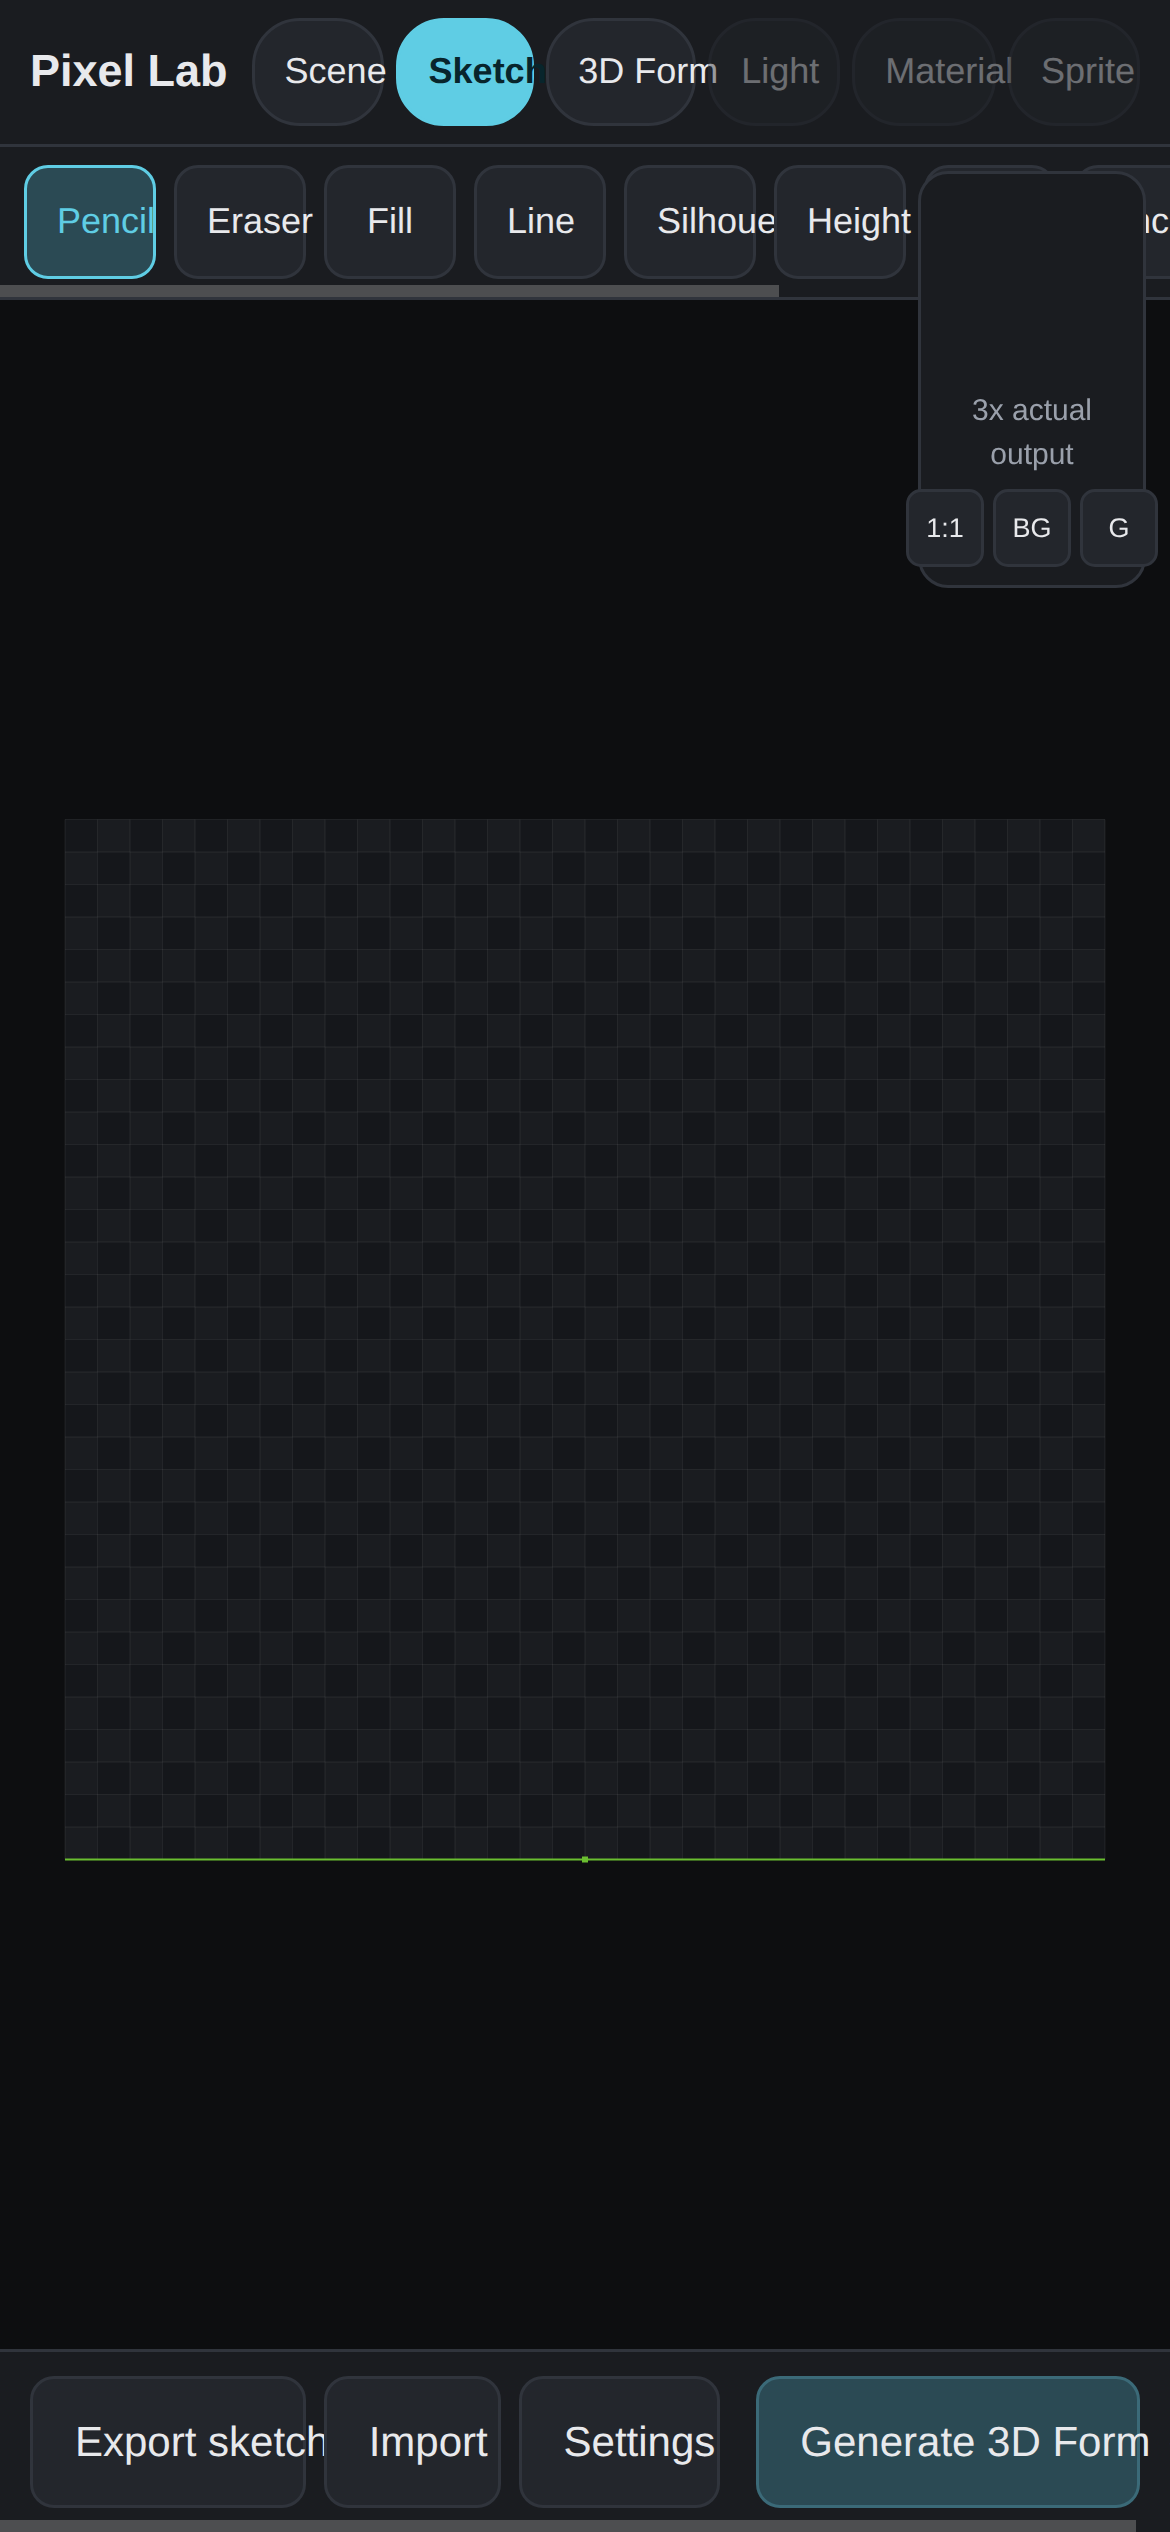
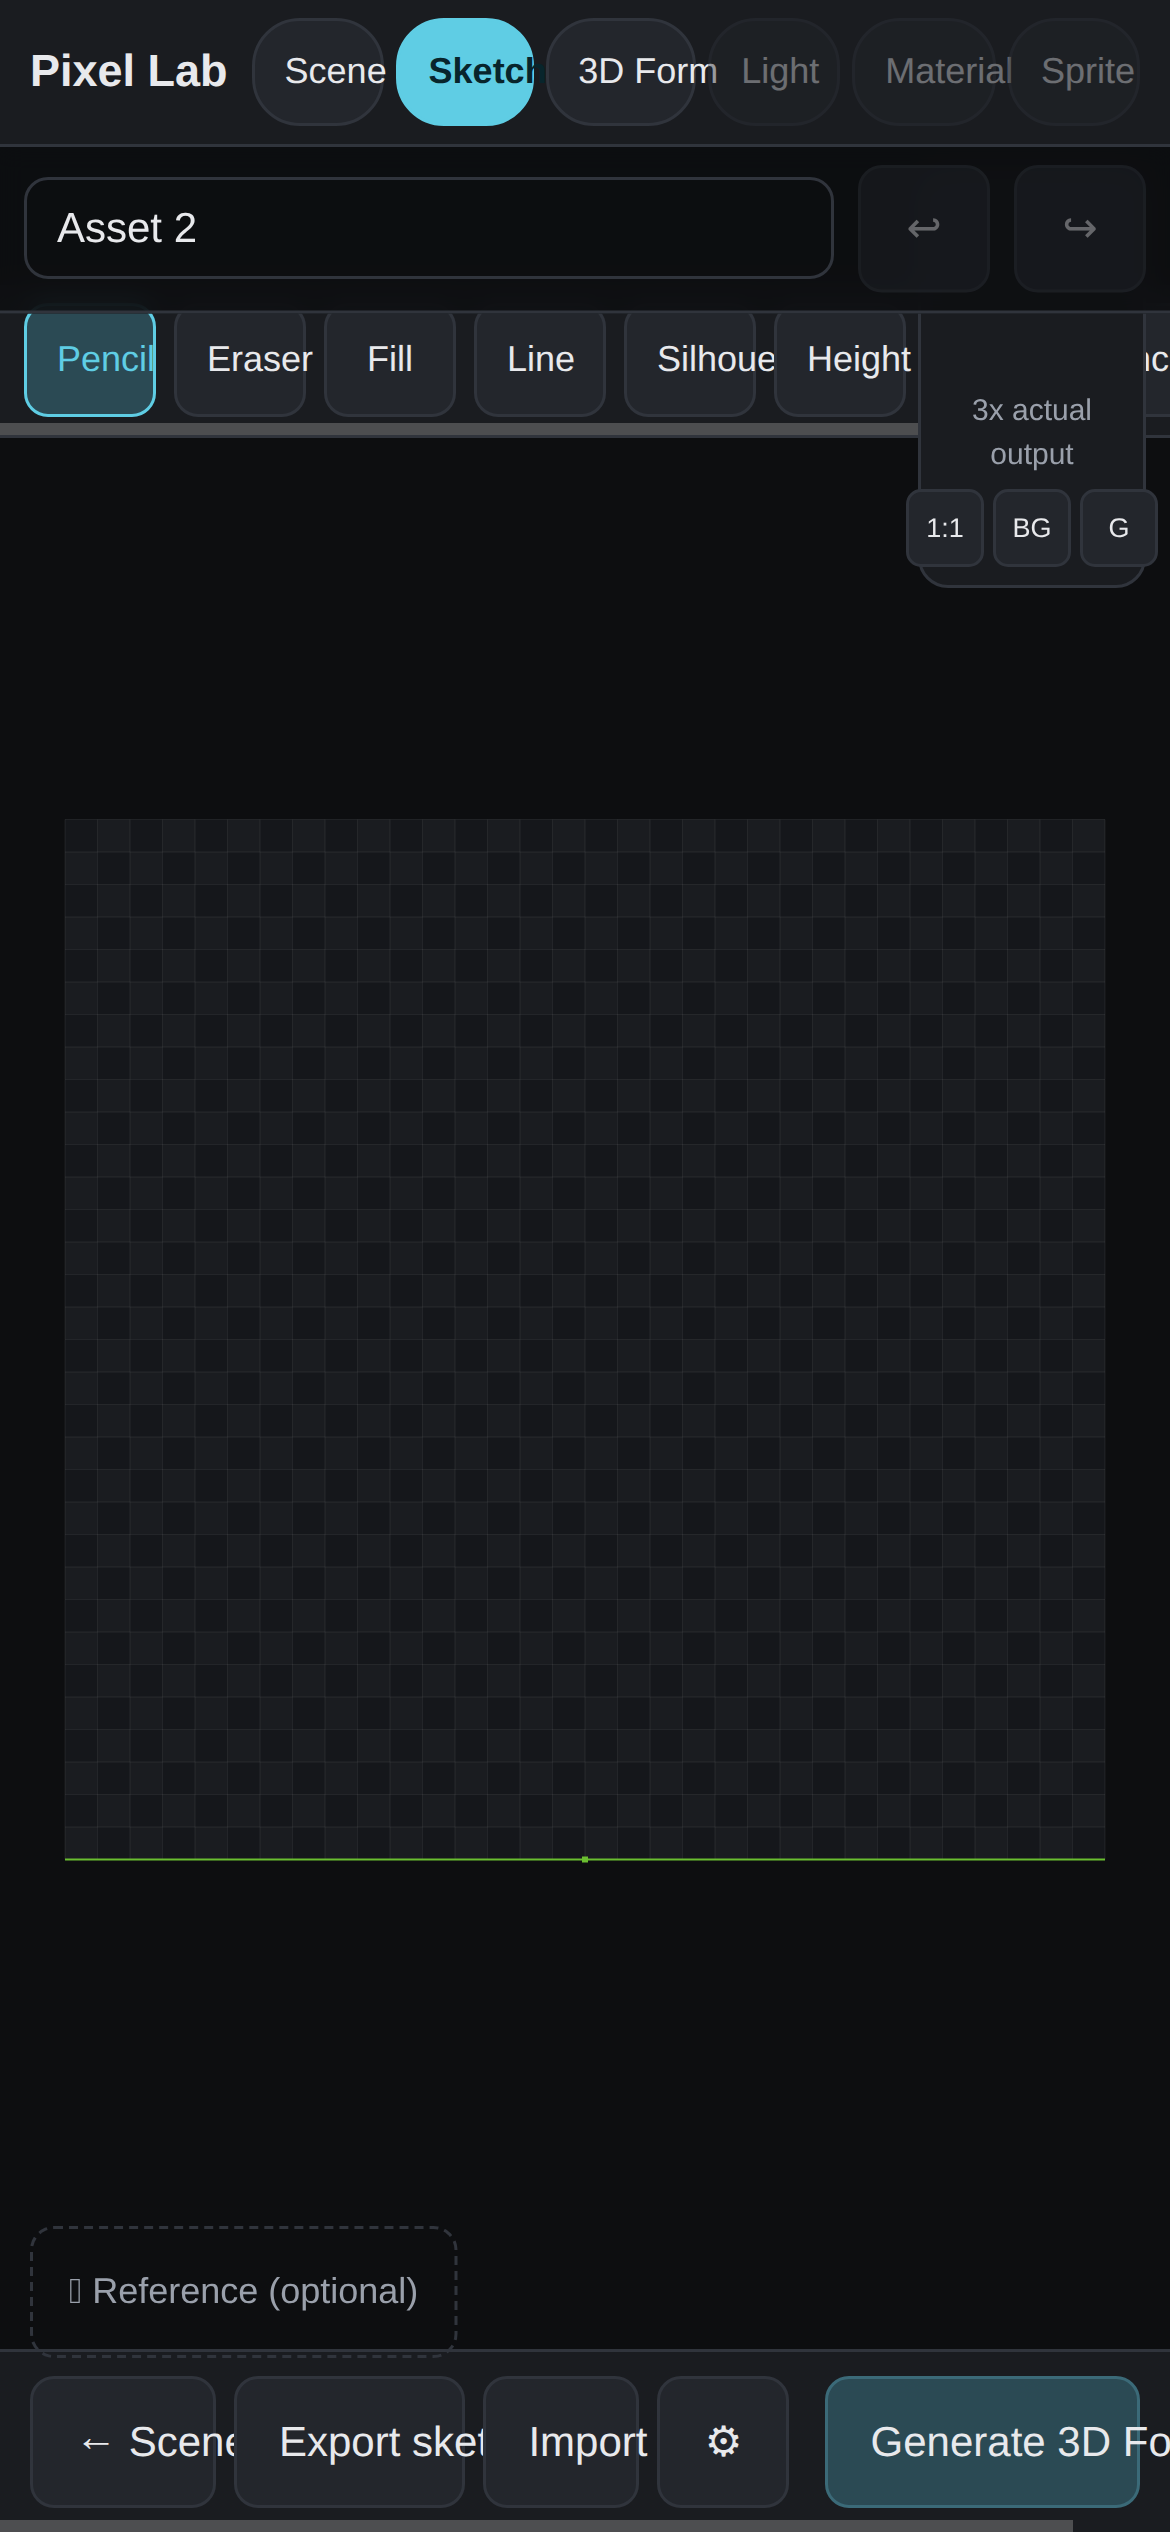
sketch: implement Amendment 001 layout — asset-name header w/ undo+redo, reference image strip
- top bar: editable asset name + undo/redo (amendment wireframe)
- ref strip below canvas: up to 4 local images, tap to enlarge/dismiss, x to remove, hidden-empty slot reserved
- refs stored on asset, never in sketch JSON or sprite exports (e2e contamination check)
- e2e: new 5b step drives file import -> thumb -> enlarge overlay -> dismiss
- fix: .ref-x needed min-width/height 0 vs global 44px button rule (tap was hitting delete)

diff --git a/src/components/SketchView.vue b/src/components/SketchView.vue
@@ -41,6 +41,8 @@ const view = { x: 40, y: 40, zoom: 12 }
 interface Snap { sil: number[]; hh: number[] | null; eh: number[] | null }
 const undoStack: Snap[] = []
 const redoStack: Snap[] = []
+const undoN = ref(0)
+const redoN = ref(0)
 
 function snap(): Snap {
   const s = asset.value!.sketch!
@@ -54,16 +56,19 @@ function pushUndo() {
   undoStack.push(snap())
   if (undoStack.length > 60) undoStack.shift()
   redoStack.length = 0
+  undoN.value = undoStack.length; redoN.value = 0
 }
 function undo() {
   if (!undoStack.length) return
   redoStack.push(snap())
   applySnap(undoStack.pop()!)
+  undoN.value = undoStack.length; redoN.value = redoStack.length
 }
 function redo() {
   if (!redoStack.length) return
   undoStack.push(snap())
   applySnap(redoStack.pop()!)
+  undoN.value = undoStack.length; redoN.value = redoStack.length
 }
 function applySnap(s: Snap) {
   const sk = asset.value!.sketch!
@@ -324,6 +329,56 @@ onBeforeUnmount(() => {
   window.removeEventListener("resize", (canvas as any)._fit)
 })
 
+// ---- references (Amendment 001, optional P1) ----
+// Up to 4 guide images below the canvas. Guides only: they are stored on the
+// asset but never enter sketch JSON or sprite output.
+const refFile = ref<HTMLInputElement | null>(null)
+const enlarged = ref<number | null>(null)
+
+const refs = computed<string[]>(() => asset.value?.references ?? [])
+
+function addReference() {
+  if (refs.value.length >= 4) { store.notice = "Max 4 references"; return }
+  refFile.value?.click()
+}
+
+async function onRefFiles(e: Event) {
+  const files = (e.target as HTMLInputElement).files
+  if (!files?.length || !asset.value) return
+  const a = asset.value
+  a.references = [...(a.references ?? [])]
+  for (const f of [...files].slice(0, 4 - a.references.length)) {
+    a.references.push(await downscaleRef(f))
+  }
+  touch(a)
+  ;(e.target as HTMLInputElement).value = ""
+}
+
+function downscaleRef(f: File): Promise<string> {
+  return new Promise((res, rej) => {
+    const img = new Image()
+    img.onload = () => {
+      const max = 512
+      const s = Math.min(1, max / Math.max(img.width, img.height))
+      const c = document.createElement("canvas")
+      c.width = Math.round(img.width * s); c.height = Math.round(img.height * s)
+      c.getContext("2d")!.drawImage(img, 0, 0, c.width, c.height)
+      URL.revokeObjectURL(img.src)
+      res(c.toDataURL("image/png"))
+    }
+    img.onerror = rej
+    img.src = URL.createObjectURL(f)
+  })
+}
+
+function removeReference(i: number) {
+  const a = asset.value
+  if (!a?.references) return
+  a.references.splice(i, 1)
+  if (!a.references.length) a.references = undefined
+  touch(a)
+}
+
 // ---- actions ----
 function exportSketch() {
   const a = asset.value
@@ -359,15 +414,33 @@ function toForm() {
   <div class="workspace">
     <div ref="host" class="canvas-host"></div>
     <PreviewPane />
-    <div class="tool-row" style="position: absolute; top: 0; left: 0; right: 0">
+    <div class="sketch-top">
+      <input class="asset-name" v-model="asset!.name" @input="touch(asset!)" />
+      <button @click="undo" :disabled="!undoN" title="Undo">↩</button>
+      <button @click="redo" :disabled="!redoN" title="Redo">↪</button>
+    </div>
+    <div class="tool-row" style="position: absolute; top: 46px; left: 0; right: 0">
       <button v-for="t in tools" :key="t.id" :class="{ on: tool === t.id }" @click="tool = t.id">{{ t.label }}</button>
-      <button @click="undo">↩</button>
-      <button @click="redo">↪</button>
+    </div>
+    <div class="ref-strip" :class="{ empty: !refs.length }">
+      <template v-if="refs.length">
+        <div v-for="(r, i) in refs" :key="i" class="ref-thumb" @click="enlarged = i">
+          <img :src="r" alt="reference" />
+          <button class="ref-x" @click.stop="removeReference(i)">×</button>
+        </div>
+        <button v-if="refs.length < 4" class="ref-add small" @click="addReference">＋</button>
+      </template>
+      <button v-else class="ref-add" @click="addReference">＋ Reference (optional)</button>
+    </div>
+    <input ref="refFile" type="file" accept="image/*" multiple hidden @change="onRefFiles" />
+    <div v-if="enlarged != null" class="ref-overlay" @click="enlarged = null">
+      <img :src="refs[enlarged]" alt="reference enlarged" />
     </div>
     <div class="bottom-bar" style="position: absolute; bottom: 0; left: 0; right: 0">
+      <button @click="store.mode = 'scene'">← Scene</button>
       <button @click="exportSketch">Export sketch</button>
       <button @click="importSketch">Import</button>
-      <button :class="{ on: sheetOpen }" @click="sheetOpen = !sheetOpen">Settings</button>
+      <button :class="{ on: sheetOpen }" @click="sheetOpen = !sheetOpen">⚙</button>
       <span class="spacer"></span>
       <button class="primary" @click="toForm">Generate 3D Form →</button>
     </div>

diff --git a/src/styles/base.css b/src/styles/base.css
@@ -249,6 +249,47 @@ input[type="range"] { width: 100%; min-height: 32px; }
 
 .pv-pad { padding: 10px; }
 
+/* Sketch top bar + reference strip (Amendment 001) */
+.sketch-top {
+  position: absolute; top: 0; left: 0; right: 0; z-index: 6;
+  display: flex; align-items: center; gap: 8px; padding: 6px 8px;
+  background: rgba(13,14,16,0.85); backdrop-filter: blur(4px);
+  border-bottom: 1px solid var(--line);
+}
+.sketch-top .asset-name {
+  flex: 1; min-width: 0; background: transparent; border: 1px solid var(--line);
+  border-radius: 8px; color: var(--fg); padding: 8px 10px; font-size: 14px;
+}
+.sketch-top button { min-width: 44px; min-height: 36px; }
+.ref-strip {
+  position: absolute; left: 0; right: 0; bottom: 52px; z-index: 6;
+  display: flex; align-items: center; gap: 8px; padding: 4px 10px;
+  min-height: 56px;
+}
+.ref-strip.empty { justify-content: flex-start; }
+.ref-thumb {
+  position: relative; width: 48px; height: 48px; flex: 0 0 auto;
+  border: 1px solid var(--line); border-radius: 8px; overflow: hidden;
+  background: #000;
+}
+.ref-thumb img { width: 100%; height: 100%; object-fit: cover; display: block; }
+.ref-thumb .ref-x {
+  position: absolute; top: 0; right: 0; width: 20px; height: 20px;
+  min-width: 0; min-height: 0;
+  background: rgba(0,0,0,0.7); color: #fff; border: none; border-radius: 0 0 0 6px;
+  font-size: 12px; line-height: 1; padding: 0;
+}
+.ref-add {
+  background: transparent; border: 1px dashed var(--line); color: var(--fg2);
+  border-radius: 8px; padding: 8px 12px; font-size: 12px;
+}
+.ref-add.small { width: 48px; height: 48px; font-size: 18px; padding: 0; }
+.ref-overlay {
+  position: fixed; inset: 0; z-index: 40; background: rgba(0,0,0,0.9);
+  display: flex; align-items: center; justify-content: center;
+}
+.ref-overlay img { max-width: 92vw; max-height: 92vh; object-fit: contain; }
+
 @media (max-width: 520px) {
   .preview-pane { width: 76px; }
   .tool-row { padding-right: 84px; }

diff --git a/src/core/types.ts b/src/core/types.ts
@@ -75,6 +75,9 @@ export interface Asset {
   contrast: number
   /** Custom per-asset ramp overrides (materialId -> ramp). */
   rampOverrides: Record<string, string[]> | null
+  /** Optional sketch references (Amendment 001): guide images as data URLs,
+   * never part of sketch/sprite exports. */
+  references?: string[]
 }
 
 export interface ScenePlacement {
